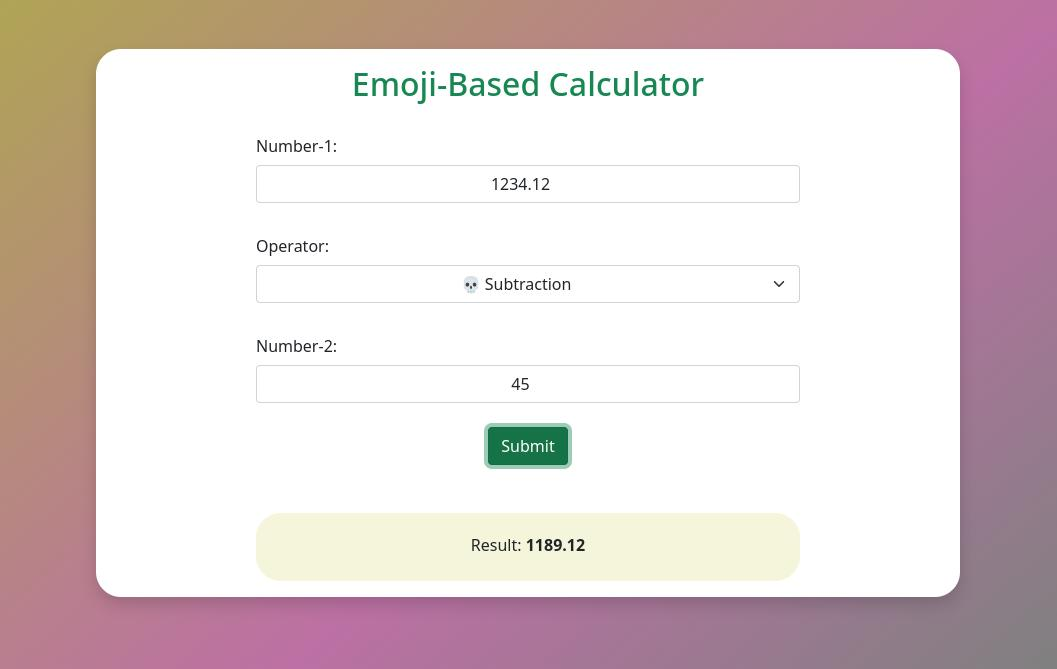
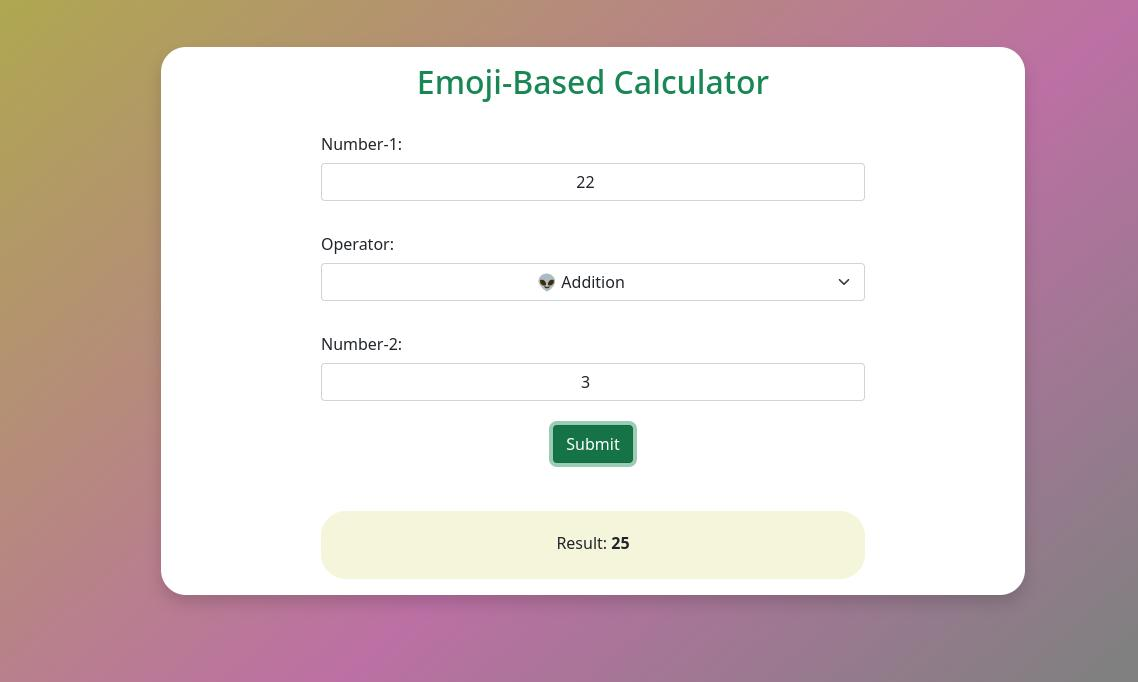
screenshot for addition and readme file edited for screenshot

diff --git a/README.md b/README.md
@@ -61,7 +61,7 @@ It is a calculation based project. Front-end will show the UI where a form is gi
 ### initial page
 ![Category List](https://github.com/MahmudJewel/Simple-calculator/blob/development/screenshot/cal-1.jpg)
 
-### Subtracttion mode
+### Addition mode
 ![Category List](https://github.com/MahmudJewel/Simple-calculator/blob/development/screenshot/cal-2.jpg)
 
 ### Division mode
